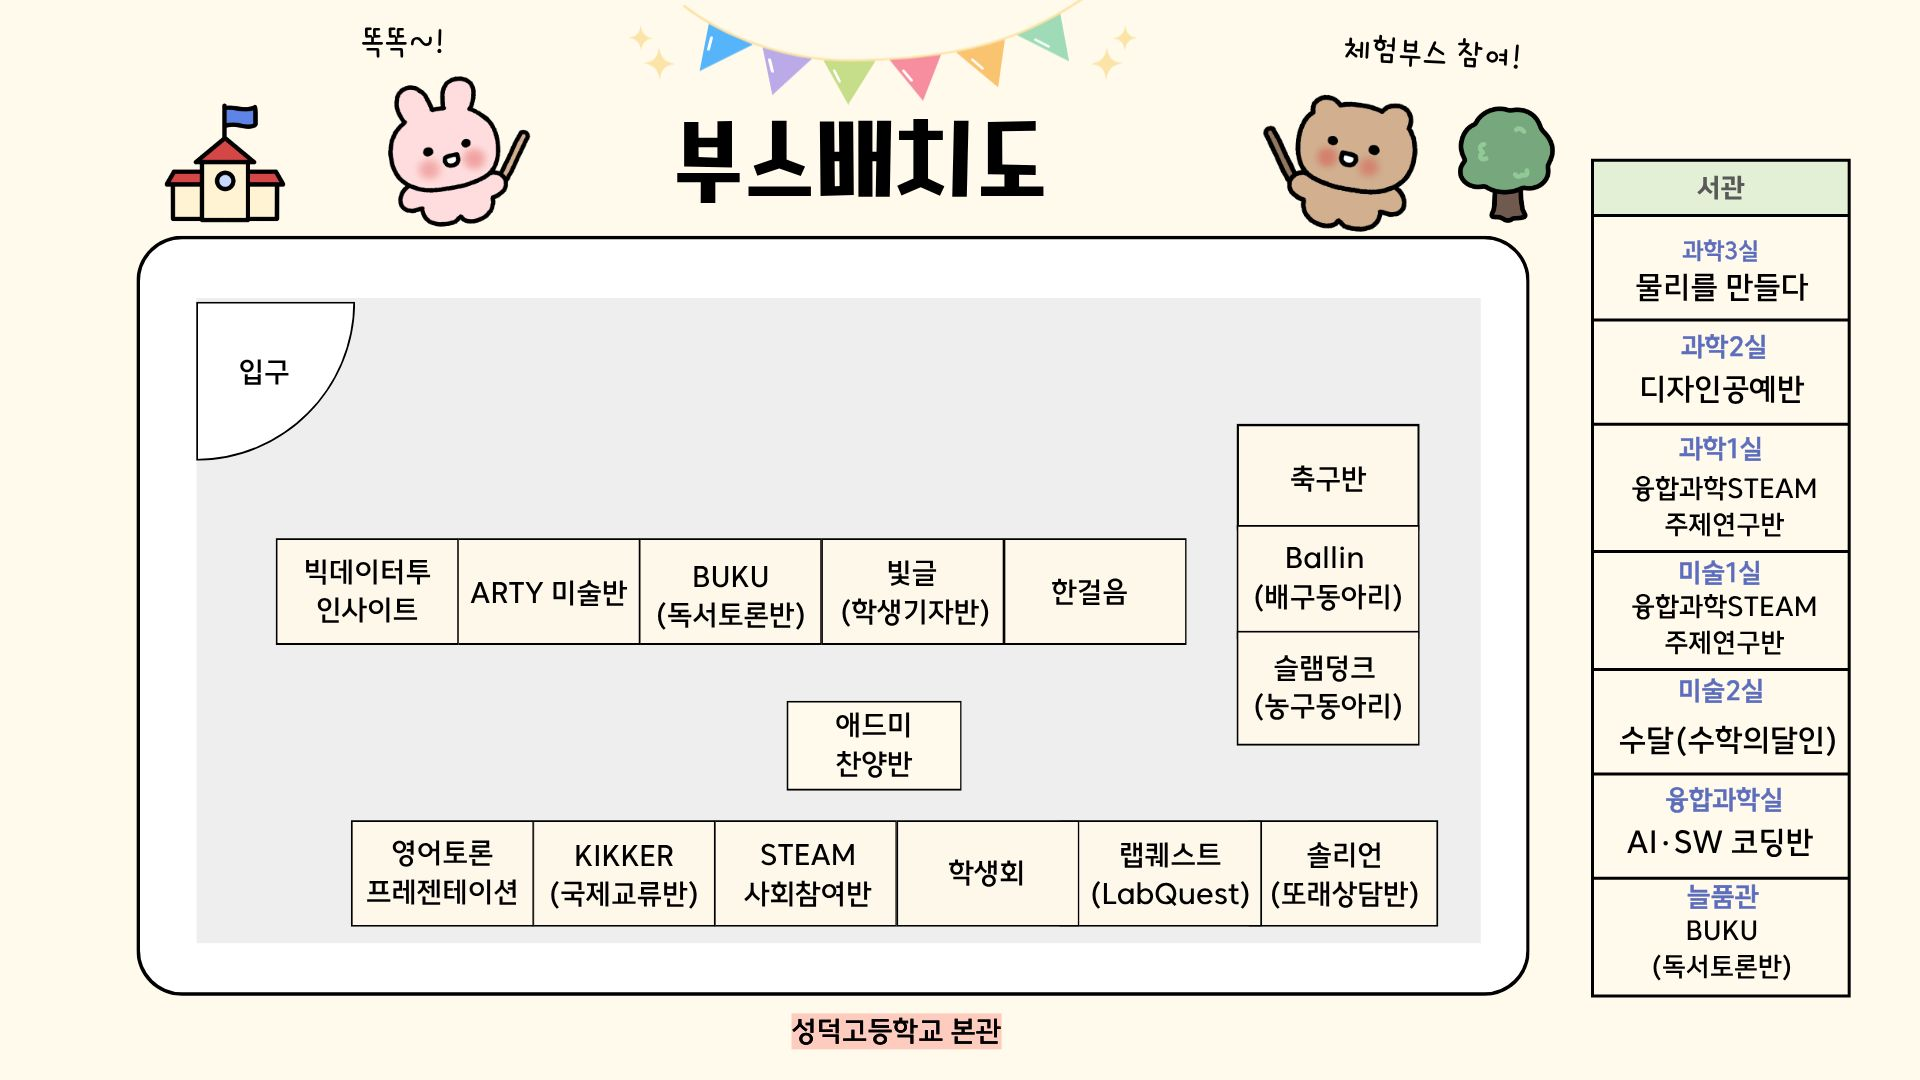
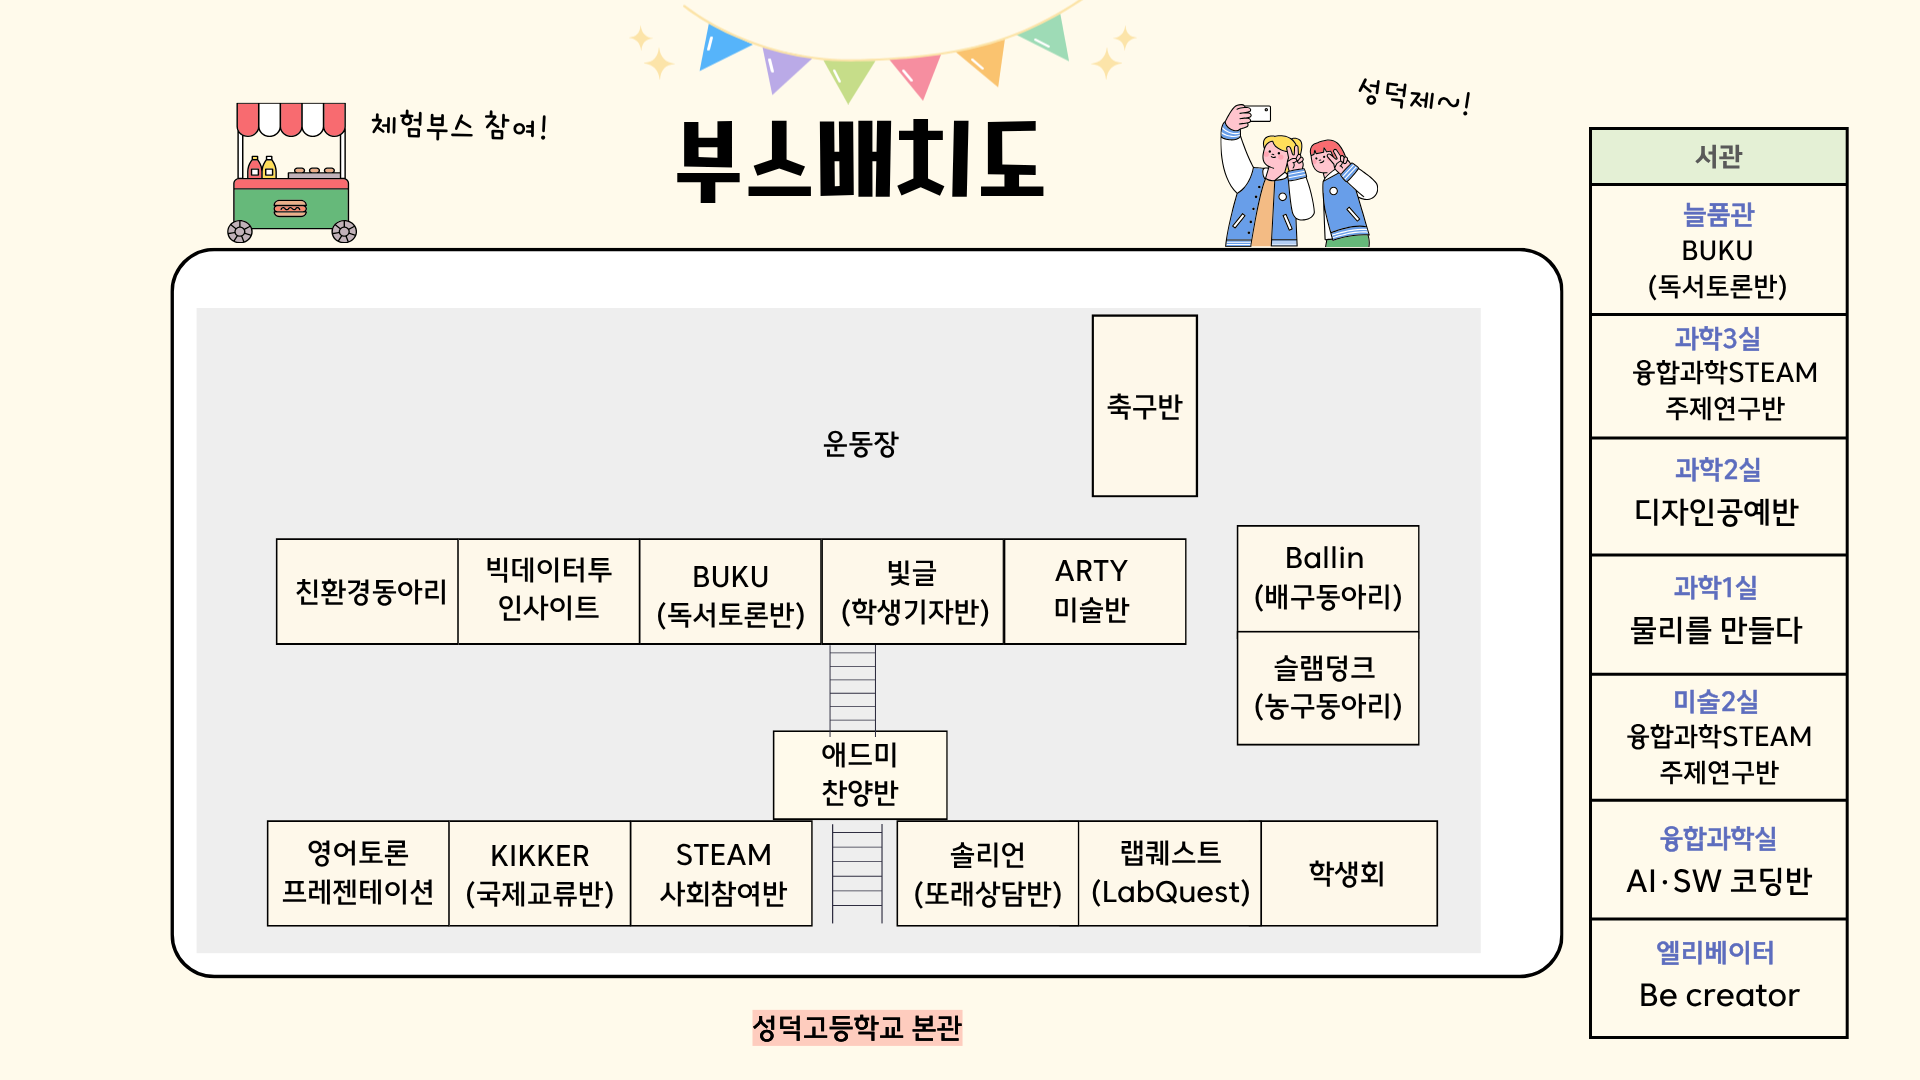
Update exhibition and performance data

diff --git a/src/pages/Home.tsx b/src/pages/Home.tsx
@@ -1,10 +1,10 @@
-import { useEffect, useState, useRef } from "react";
+import { useEffect, useState } from "react";
 import { useNavigate } from "react-router-dom";
 import { supabase } from "@/integrations/supabase/client";
 import { Button } from "@/components/ui/button";
 import { Card } from "@/components/ui/card";
 import Navigation from "@/components/Navigation";
-import { Heart, Map, Stamp, Calendar, Frame, LogOut, Volume2, VolumeX } from "lucide-react";
+import { Heart, Map, Stamp, Calendar, Frame, LogOut } from "lucide-react";
 import { toast } from "sonner";
 
 export default function Home() {
@@ -12,8 +12,6 @@ export default function Home() {
   const [user, setUser] = useState<any>(null);
   const [profile, setProfile] = useState<any>(null);
   const [stampCount, setStampCount] = useState(0);
-  const [isMusicPlaying, setIsMusicPlaying] = useState(false);
-  const audioRef = useRef<HTMLAudioElement | null>(null);
 
   useEffect(() => {
     const checkAuth = async () => {
@@ -50,34 +48,12 @@ export default function Home() {
 
     return () => {
       subscription.unsubscribe();
-      if (audioRef.current) {
-        audioRef.current.pause();
-      }
     };
   }, [navigate]);
 
   const handleLogout = async () => {
     await supabase.auth.signOut();
     toast.success("로그아웃 되었습니다");
-  };
-
-  const toggleMusic = () => {
-    if (!audioRef.current) {
-      audioRef.current = new Audio("https://assets.mixkit.co/music/preview/mixkit-happy-acoustic-ukulele-11.mp3");
-      audioRef.current.loop = true;
-      audioRef.current.volume = 0.3;
-    }
-    
-    if (isMusicPlaying) {
-      audioRef.current.pause();
-      setIsMusicPlaying(false);
-    } else {
-      audioRef.current.play().catch(err => {
-        console.error("Audio play failed:", err);
-        toast.error("음악 재생에 실패했습니다. 다시 시도해주세요.");
-      });
-      setIsMusicPlaying(true);
-    }
   };
 
   if (!user) return null;
@@ -96,16 +72,7 @@ export default function Home() {
[1 lines of base64/hex data omitted]
         
         <div className="relative">
-          <div className="flex justify-between mb-4">
-            <Button
-              variant="ghost"
-              size="sm"
-              onClick={toggleMusic}
-              className="text-white hover:bg-white/20"
-            >
-              {isMusicPlaying ? <Volume2 className="w-4 h-4 mr-2" /> : <VolumeX className="w-4 h-4 mr-2" />}
-              {isMusicPlaying ? "음악 끄기" : "음악 켜기"}
-            </Button>
+          <div className="flex justify-end mb-4">
             <Button
               variant="ghost"
               size="sm"
@@ -200,17 +167,6 @@ export default function Home() {
             );
           })}
         </div>
-
-        {/* Notice */}
-        <Card className="p-6 bg-muted/30 backdrop-blur-sm border-l-4 border-primary shadow-lg">
-          <h3 className="font-bold text-lg mb-2 text-primary">공지사항</h3>
-          <ul className="space-y-2 text-sm text-muted-foreground leading-relaxed">
-            <li>• 축제 기간: 오늘 하루 (13:00 ~ 16:30)</li>
-            <li>• 경품 수령: 본관 1층 안내데스크 (16:30까지)</li>
-            <li>• 20개 부스 완주 시 경품 증정!</li>
-            <li>• 사랑으로 연결되는 오늘, 즐거운 축제 되세요 ♥</li>
-          </ul>
-        </Card>
       </div>
 
       <Navigation />

diff --git a/src/pages/StampBoard.tsx b/src/pages/StampBoard.tsx
@@ -19,7 +19,7 @@ async function verifyPinServer(boothId: number, pin: string): Promise<boolean> {
   return pin === "0000";
 }
 
-/** 부스 목록 (원하는 순서대로 정렬) - 수달 제외 */
+/** 부스 목록 (원하는 순서대로 정렬) */
 type Booth = { id: number; name: string; emoji: string };
 const BOOTHS: Booth[] = [
   { id: 1,  name: "영어토론 프레젠테이션", emoji: "🗣" },
@@ -38,6 +38,7 @@ const BOOTHS: Booth[] = [
   { id: 14,  name: "Ballin(배구)",         emoji: "🏐" },
   { id: 15,  name: "애드미 찬양반",        emoji: "🎤" },
   { id: 16,  name: "물리를 만들다",        emoji: "⚛" },
+  { id: 17,  name: "Be creator",           emoji: "✨" },
   { id: 18,  name: "디자인공예반",        emoji: "🎁" },
   { id: 19,  name: "융합과학STEAM(연구)",  emoji: "🔭" },
   { id: 20,  name: "AI·SW 코딩반",        emoji: "🤖" },

diff --git a/src/pages/Exhibitions.tsx b/src/pages/Exhibitions.tsx
@@ -32,8 +32,8 @@ export default function Exhibitions() {
   const exhibitionData: { [key: string]: { emoji: string; title: string; description: string; teacher: string } } = {
     '수달(수학의달인)': {
       emoji: '📐',
-      title: '수학 보드게임 카페',
-      description: '수학 보드게임을 즐기며 수리적 사고를 체험하는 카페형 전시 🎲\n게임을 통해 수학의 즐거움을 발견하세요!',
+      title: '수학의달인',
+      description: '일상 속에서 발견한 수학의 원리를 한눈에 볼 수 있는 전시 🔢\n수학이 우리 주변에 얼마나 가까이 있는지 체험해보세요!',
       teacher: '전승주'
     },
     '간호보건동아리': {
